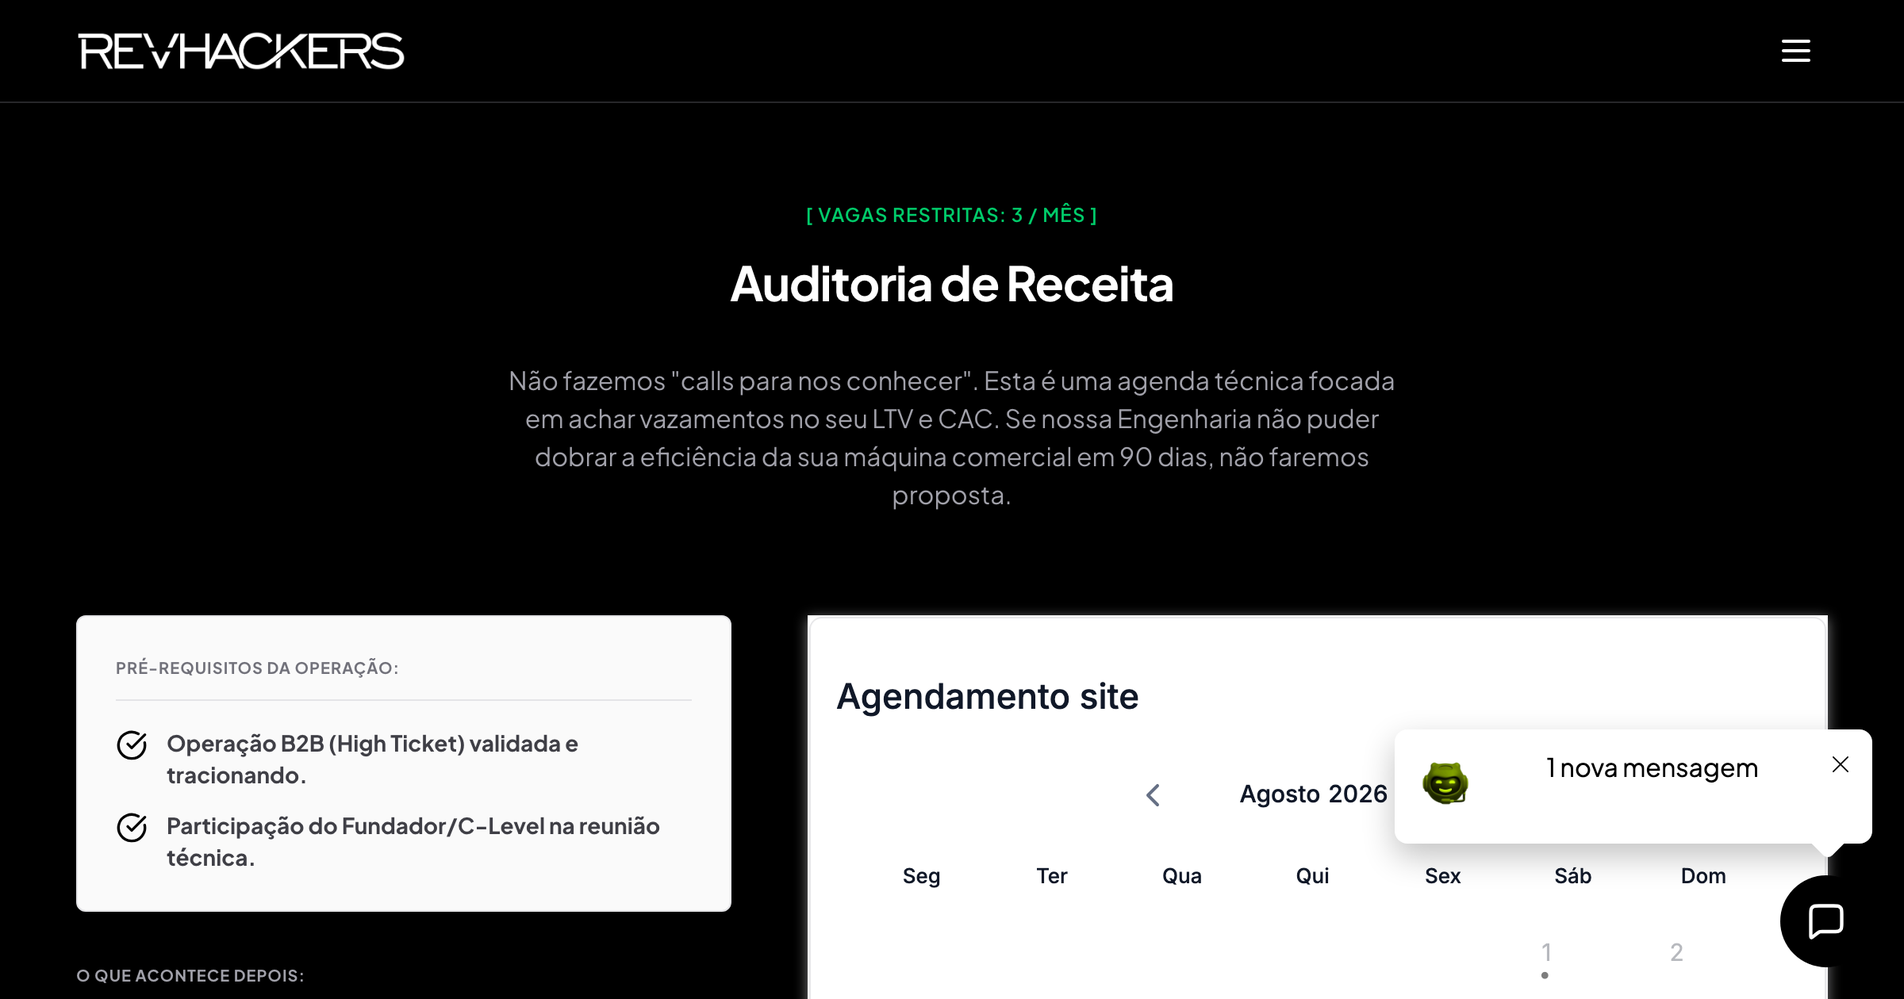
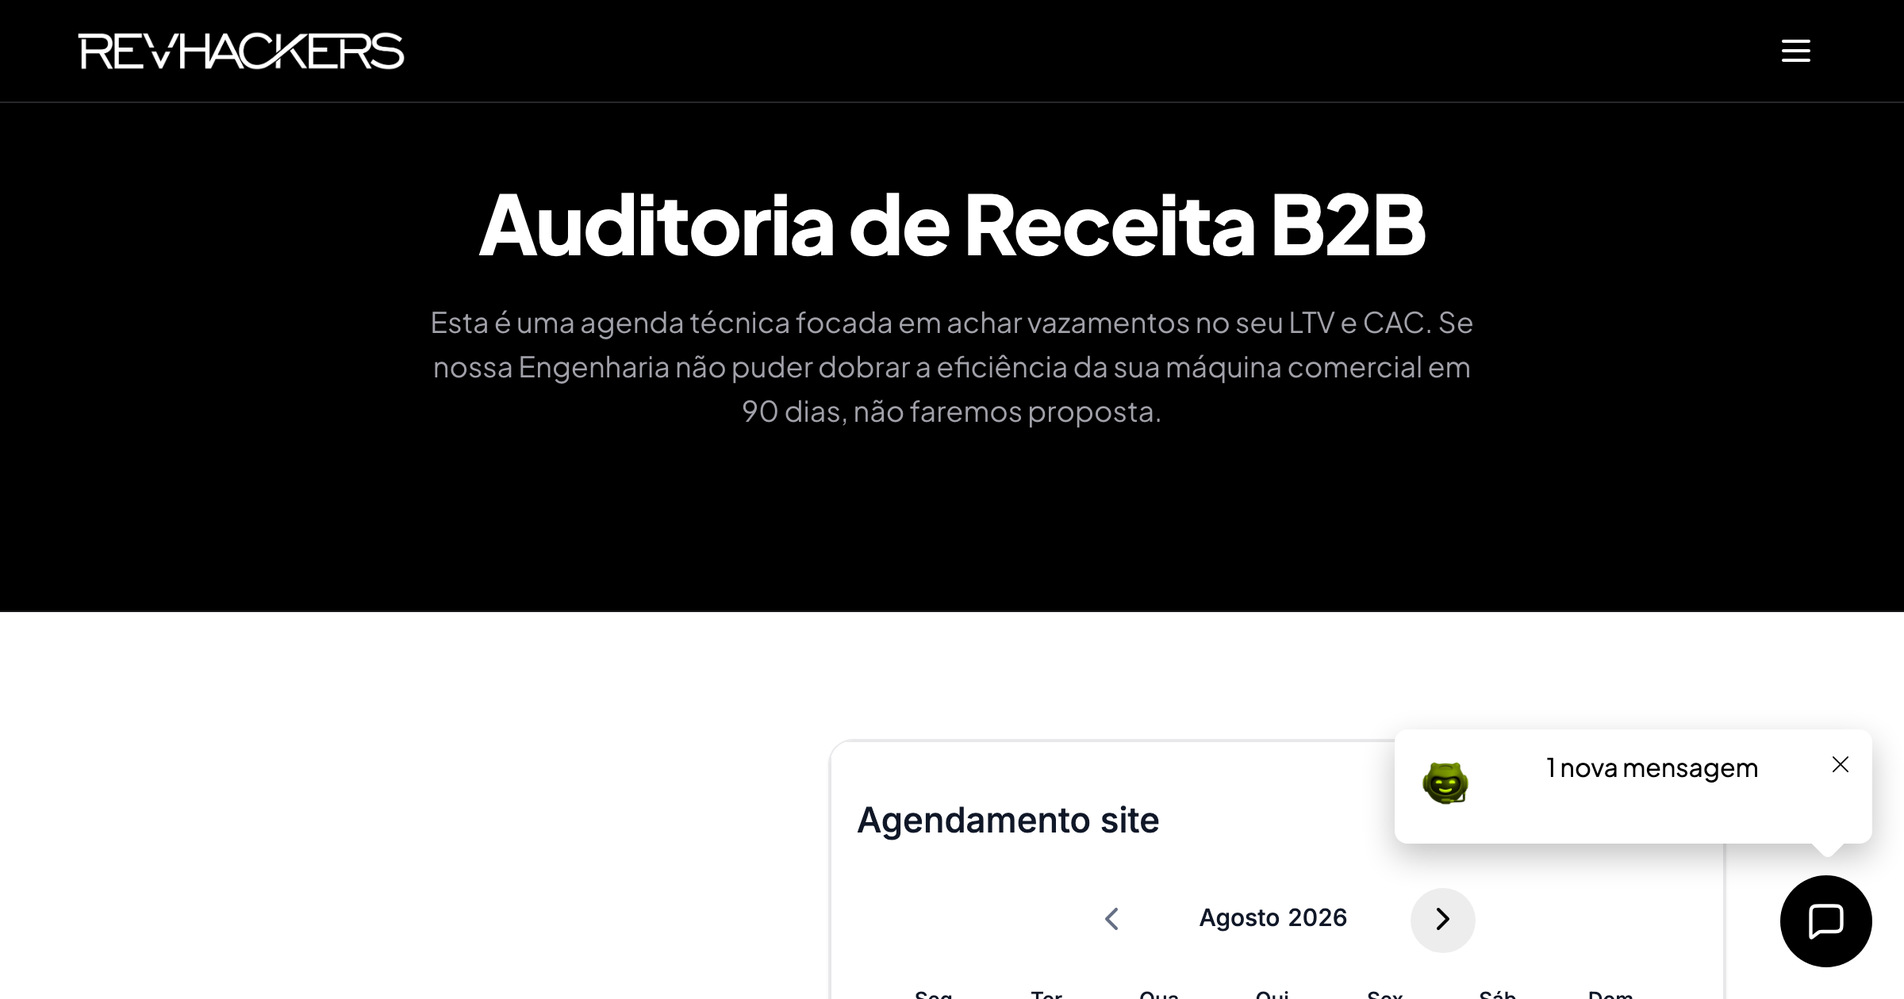
style(booking-cleanup): streamline left column into ultra-minimalist 2-item list and metric counter

diff --git a/src/pages/Booking.tsx b/src/pages/Booking.tsx
@@ -49,76 +49,59 @@ const BookingPage = () => {
         description="Agende uma auditoria técnica com a RevHackers para mapear vazamentos na sua operação B2B."
         canonical="https://revhackers.com.br/booking"
       />
-      <section className="py-24 md:py-32 bg-black min-h-screen">
-        <div className="w-full max-w-6xl mx-auto px-6">
+      {/* Hero Section (BLACK HERO STANDARD) */}
+      <section className="relative py-20 md:py-28 bg-black border-b border-zinc-900">
+        <div className="max-w-4xl mx-auto px-6 text-center space-y-5">
+          <h1 className="font-sans text-[2rem] sm:text-[2.75rem] md:text-[3.25rem] font-extrabold text-white leading-[1.1] tracking-tight text-center max-w-3xl mx-auto">
+            Auditoria de Receita B2B
+          </h1>
+          <p className="text-zinc-400 text-base md:text-lg font-normal leading-relaxed max-w-2xl mx-auto text-center">
+            Esta é uma agenda técnica focada em achar vazamentos no seu LTV e CAC. Se nossa Engenharia não puder dobrar a eficiência da sua máquina comercial em 90 dias, não faremos proposta.
+          </p>
+        </div>
+      </section>
 
-          {/* Header */}
-          <div className="text-center mb-16">
-            <p className="text-[#00CC6A] text-xs font-semibold tracking-wider uppercase mb-4">
-              [ Vagas Restritas: 3 / mês ]
-            </p>
-            <h1 className="text-2xl md:text-3xl font-bold text-white tracking-tight leading-tight max-w-2xl mx-auto text-center mb-8">Auditoria de Receita</h1>
-            <p className="text-sm md:text-base text-zinc-400 max-w-xl mx-auto leading-relaxed text-center">
-              Não fazemos "calls para nos conhecer". Esta é uma agenda técnica focada em achar vazamentos no seu LTV e CAC. Se nossa Engenharia não puder dobrar a eficiência da sua máquina comercial em 90 dias, não faremos proposta.
-            </p>
-          </div>
+      {/* Main Section — Fundo 100% Branco Puro e Minimalista */}
+      <section className="py-16 sm:py-20 bg-white text-zinc-900 border-b border-zinc-200/80">
+        <div className="w-full max-w-5xl mx-auto px-6">
 
-          {/* Layout 2 colunas: info + calendário */}
-          <div className="grid grid-cols-1 lg:grid-cols-5 gap-12 items-start">
+          {/* Layout 2 colunas: info ultra-clean + calendário */}
+          <div className="grid grid-cols-1 lg:grid-cols-5 gap-8 lg:gap-12 items-center">
 
-            {/* Coluna esquerda: contexto de conversão */}
-            <div className="lg:col-span-2 flex flex-col gap-8">
+            {/* Coluna esquerda: contexto minimalista sem poluição */}
+            <div className="lg:col-span-2 flex flex-col justify-center space-y-8">
 
-              {/* Pré-Requisitos */}
-              <div className="bg-zinc-50 border border-zinc-200 p-6 rounded-sm">
-                <span className="font-bold text-xxs tracking-wider uppercase text-zinc-500 mb-4 border-b border-zinc-200 pb-3 block">
-                  Pré-Requisitos da Operação:
+              {/* Pré-Requisitos em Lista Limpa */}
+              <div className="space-y-3">
+                <span className="text-xs font-bold uppercase tracking-wider text-zinc-950 block">
+                  Pré-Requisitos:
                 </span>
-                <div className="flex flex-col gap-3">
-                  <div className="flex items-start gap-3 text-sm text-zinc-700 font-bold">
-                    <CheckCircle className="w-5 h-5 text-black shrink-0 mt-0.5" />
-                    Operação B2B (High Ticket) validada e tracionando.
-                  </div>
-                  <div className="flex items-start gap-3 text-sm text-zinc-700 font-bold">
-                    <CheckCircle className="w-5 h-5 text-black shrink-0 mt-0.5" />
-                    Participação do Fundador/C-Level na reunião técnica.
-                  </div>
-                </div>
+                <ul className="space-y-3 text-xs sm:text-sm">
+                  <li className="flex items-center gap-2.5 text-zinc-900 font-semibold">
+                    <span className="w-1.5 h-1.5 rounded-full bg-zinc-950 shrink-0" />
+                    Operação B2B (High Ticket) tracionando
+                  </li>
+                  <li className="flex items-center gap-2.5 text-zinc-900 font-semibold">
+                    <span className="w-1.5 h-1.5 rounded-full bg-zinc-950 shrink-0" />
+                    Presença do Fundador / C-Level na sessão
+                  </li>
+                </ul>
               </div>
 
-              {/* O que acontece depois de agendar */}
-              <div>
-                <span className="font-bold text-xxs tracking-wider uppercase text-zinc-400 mb-5 block">
-                  O que acontece depois:
-                </span>
-                <div className="flex flex-col gap-5">
-                  {nextSteps.map((step, i) => (
-                    <div key={i} className="flex items-start gap-4">
-                      <div className="w-9 h-9 rounded-sm bg-zinc-900 flex items-center justify-center shrink-0">
-                        <step.icon className="w-4 h-4 text-white" />
-                      </div>
-                      <div>
-                        <p className="text-sm font-bold text-zinc-900 mb-1">{step.title}</p>
-                        <p className="text-sm text-zinc-500 leading-relaxed">{step.desc}</p>
-                      </div>
-                    </div>
-                  ))}
-                </div>
+              {/* Métrica Única de Impacto */}
+              <div className="border-t border-zinc-200/80 pt-6 space-y-1">
+                <p className="text-xs font-semibold text-zinc-400 uppercase tracking-wider">Resultado Auditado Misto</p>
+                <p className="text-2xl sm:text-3xl font-extrabold text-zinc-950 tracking-tight">+R$ 480.000</p>
+                <p className="text-xs text-zinc-500">em receita recuperada nas últimas auditorias.</p>
               </div>
 
-              {/* Mini social proof */}
-              <div className="border-t border-zinc-100 pt-6">
-                <p className="text-xs font-bold text-zinc-400 uppercase tracking-wider mb-3">Resultado típico em 90 dias</p>
-                <p className="text-2xl font-bold text-zinc-900 tracking-tight">+R$480K</p>
-                <p className="text-sm text-zinc-500 mt-1">em receita identificada ou recuperada nas últimas 4 auditorias.</p>
-              </div>
             </div>
 
             {/* Coluna direita: calendário */}
-            <div className="lg:col-span-3 bg-white overflow-hidden min-h-[700px] border border-zinc-100 shadow-sm shadow-zinc-100/50">
+            <div className="lg:col-span-3 bg-white overflow-hidden min-h-[680px] border border-zinc-200/80 rounded-xl shadow-xs">
               <iframe
                 src={BOOKING_BASE_URL}
-                style={{ width: '100%', border: 'none', overflow: 'hidden', minHeight: '700px', background: '#ffffff' }}
+                style={{ width: '100%', border: 'none', overflow: 'hidden', minHeight: '680px', background: '#ffffff' }}
                 scrolling="no"
                 id="frZ10gIRdS8iNvtlGq3q_1775165036136"
                 title="Auditoria de Receita"

diff --git a/src/pages/MaterialLanding.tsx b/src/pages/MaterialLanding.tsx
@@ -93,55 +93,46 @@ export default function MaterialLanding() {
                 description={(material.description || material.subheadline || 'Material gratuito RevHackers').replace(/<[^>]*>/g, '').substring(0, 160)}
                 canonical={`https://revhackers.com.br/materiais/${slug}`}
             />
-            {/* Hero Section - Apple/OpenAI Minimalist Style */}
-            <section className="pt-32 pb-24 px-6 bg-white min-h-[70vh] flex items-center justify-center">
-                <div className="max-w-3xl mx-auto text-center space-y-10">
-
-                    {/* Headline */}
-                    <div className="space-y-4">
-                        <h1 className="text-[2.5rem] md:text-[3.5rem] font-semibold tracking-tight text-zinc-900 leading-[1.1] max-w-3xl mx-auto">
-                            {(material.headline || material.title || '').replace(/<[^>]*>/g, '')}
-                        </h1>
-                        <p className="text-[1rem] md:text-[1.25rem] text-zinc-500 font-light tracking-tight max-w-xl mx-auto leading-relaxed">
-                            {(material.subheadline || material.description || '').replace(/<[^>]*>/g, '').substring(0, 150)}
-                        </p>
-                    </div>
-
-                    {/* CTA Button */}
-                    {!showForm ? (
-                        <div className="pt-8">
-                            <button
+            {/* Hero Section - Black Standard Hero */}
+            <section className="relative py-20 md:py-28 bg-black border-b border-zinc-900">
+                <div className="max-w-3xl mx-auto px-6 text-center space-y-6">
+                    <h1 className="font-sans text-[2rem] sm:text-[2.75rem] md:text-[3.25rem] font-extrabold text-white leading-[1.1] tracking-tight text-center max-w-3xl mx-auto">
+                        {(material.headline || material.title || '').replace(/<[^>]*>/g, '')}
+                    </h1>
+                    <p className="text-zinc-400 text-base md:text-lg font-normal leading-relaxed max-w-2xl mx-auto text-center">
+                        {(material.subheadline || material.description || '').replace(/<[^>]*>/g, '').substring(0, 150)}
+                    </p>
+                    {!showForm && (
+                        <div className="pt-2 flex justify-center">
+                            <Button
                                 onClick={() => setShowForm(true)}
-                                className="group inline-flex items-center gap-3 bg-revgreen hover:bg-[#00A850] text-white font-semibold text-sm px-8 py-4 rounded-full transition-all duration-300 hover:shadow-sm hover:-translate-y-0.5"
+                                className="bg-[#00CC6A] text-zinc-950 hover:bg-[#00b35e] font-extrabold text-sm sm:text-base h-12 px-8 rounded-xl shadow-lg transition-all flex items-center gap-2"
                             >
                                 <Download className="w-4 h-4" />
-                                Baixar Gratuitamente
-                                <span className="w-6 h-6 bg-white/20 rounded-full flex items-center justify-center group-hover:bg-white/30 transition-colors">
-                                    <ChevronRight className="w-3 h-3" />
-                                </span>
-                            </button>
-                            <p className="text-xs text-zinc-400 mt-4">
-                                Acesso imediato após preencher o formulário
-                            </p>
+                                <span>Baixar Gratuitamente →</span>
+                            </Button>
                         </div>
-                    ) : (
-                        /* Download Form */
-                        <div className="max-w-md mx-auto bg-zinc-50 border border-zinc-200 p-8 text-left animate-in fade-in slide-in-from-bottom-4 duration-500">
-                            <div className="mb-6 text-center">
-                                <h3 className="text-lg font-semibold text-zinc-900 mb-1">Acesse o material</h3>
-                                <p className="text-sm text-zinc-500">Preencha seus dados para liberar o download</p>
+                    )}
+                </div>
+            </section>
+
+            {/* Content / Form Section — Fundo 100% Branco Puro */}
+            <section className="py-20 bg-white text-zinc-900 border-b border-zinc-200/80">
+                <div className="max-w-md mx-auto px-6">
+                    {showForm && (
+                        <div className="bg-zinc-50/70 border border-zinc-200/80 p-8 rounded-xl space-y-6">
+                            <div className="text-center space-y-1">
+                                <h3 className="text-lg font-bold text-zinc-950 tracking-tight">Acesse o material</h3>
+                                <p className="text-xs text-zinc-500">Preencha seus dados para liberar o download imediato</p>
                             </div>
                             <DownloadForm
                                 materialId={material.id}
                                 materialType={material.type}
-                                onSubmit={() => {
-                                    // Form handles success internally
-                                }}
+                                onSubmit={() => {}}
                                 linkMaterial={material.downloadLink}
                             />
                         </div>
                     )}
-
                 </div>
             </section>
         </PageLayout>

diff --git a/src/pages/ClaudePartnerNetworkPage.tsx b/src/pages/ClaudePartnerNetworkPage.tsx
@@ -144,48 +144,48 @@ export default function ClaudePartnerNetworkPage() {
         canonical="https://revhackers.com.br/claude-partner-network"
       />
 
-      {/* Hero Section (BENCHMARK HOMEPAGE HERO) */}
+      {/* Hero Section (HOMEPAGE HERO 100% VISUAL CLONE) */}
       <section
         ref={heroRef}
         className="relative min-h-[85vh] flex flex-col justify-center items-center overflow-hidden pt-28 pb-16 bg-black border-b border-zinc-900"
       >
         <div className="relative z-10 w-full max-w-4xl mx-auto px-6 flex flex-col items-center text-center">
           
-          {/* Lockup Oficial: Claude Partner Network by RevHackers */}
+          {/* Lockup Compacto Oficial: Claude Partner Network by RevHackers */}
           <motion.div
             initial={{ opacity: 0, y: 16 }}
             animate={inViewHero ? { opacity: 1, y: 0 } : {}}
             transition={{ duration: 0.5, ease: 'easeOut' }}
-            className="flex items-center justify-center gap-3 sm:gap-4 mb-6 p-3 px-6 rounded-2xl bg-zinc-900/60 border border-zinc-800/80 shadow-inner"
+            className="flex items-center justify-center gap-2.5 mb-6 py-1.5 px-4 rounded-full bg-zinc-900/80 border border-zinc-800"
           >
             <img
               src="/brand/claude-partner-network.svg"
               alt="Claude Partner Network"
-              className="h-7 sm:h-9 w-auto object-contain"
+              className="h-4 sm:h-4.5 w-auto object-contain"
             />
-            <span className="text-zinc-400 font-medium text-xs sm:text-sm tracking-wide lowercase">by</span>
+            <span className="text-zinc-500 font-medium text-xs">by</span>
             <img
               src="/brand/revhackers-wordmark-white.png"
               alt="REVHACKERS"
-              className="h-4 sm:h-5 w-auto object-contain"
+              className="h-3 sm:h-3.5 w-auto object-contain"
             />
           </motion.div>
           
-          {/* Headline H1 (HOMEPAGE BENCHMARK EXACT SCALE) */}
+          {/* Headline H1 (EXACT SAME AS HOME HERO) */}
           <motion.h1
             initial={{ opacity: 0, y: 16 }}
             animate={inViewHero ? { opacity: 1, y: 0 } : {}}
             transition={{ duration: 0.5, delay: 0.05, ease: 'easeOut' }}
-            className="font-sans text-[2rem] sm:text-[2.75rem] md:text-[3.25rem] font-extrabold text-white mb-5 leading-[1.1] tracking-tight text-center max-w-3xl"
+            className="font-sans text-[2rem] sm:text-[2.75rem] md:text-[3.25rem] font-extrabold text-white mb-5 leading-[1.1] tracking-tight text-center max-w-4xl"
           >
             Você foi selecionado para o <span className="text-[#00CC6A]">Claude Partner Network</span> & RevHackers.
           </motion.h1>
 
-          {/* Subheadline (HOMEPAGE BENCHMARK EXACT SCALE) */}
+          {/* Subheadline (EXACT SAME AS HOME HERO) */}
           <motion.p
             initial={{ opacity: 0, y: 16 }}
             animate={inViewHero ? { opacity: 1, y: 0 } : {}}
-            transition={{ duration: 0.5, delay: 0.1, ease: 'easeOut' }}
+            transition={{ duration: 0.5, delay: 0.08, ease: 'easeOut' }}
             className="text-zinc-400 mb-8 text-base md:text-lg font-normal leading-relaxed max-w-2xl mx-auto text-center"
           >
             Aqui é o ambiente onde você vai aprender o Claude de verdade. Dedique-se e com certeza você colherá bons frutos disso.
@@ -194,7 +194,7 @@ export default function ClaudePartnerNetworkPage() {
           <motion.div
             initial={{ opacity: 0, y: 16 }}
             animate={inViewHero ? { opacity: 1, y: 0 } : {}}
-            transition={{ duration: 0.5, delay: 0.15 }}
+            transition={{ duration: 0.5, delay: 0.14, ease: 'easeOut' }}
           >
             <Button
               onClick={scrollToForm}

diff --git a/src/pages/AgendaDiagnostico.tsx b/src/pages/AgendaDiagnostico.tsx
@@ -62,42 +62,31 @@ const AgendaDiagnosticoPage = () => {
     return queryString ? `?${queryString}` : '';
   };
 
-  return (
-    <PageLayout>
-      <div className="min-h-screen bg-black pt-24 pb-12 flex flex-col items-center justify-center">
-        <div className="container-custom w-full max-w-5xl">
+      {/* Hero Section (BLACK HERO STANDARD) */}
+      <section className="relative py-20 md:py-28 bg-black border-b border-zinc-900">
+        <div className="max-w-4xl mx-auto px-6 text-center space-y-5">
+          <h1 className="font-sans text-[2rem] sm:text-[2.75rem] md:text-[3.25rem] font-extrabold text-white leading-[1.1] tracking-tight text-center max-w-3xl mx-auto">
+            Agendar <span className="text-[#00CC6A]">Sessão Estratégica</span>
+          </h1>
+          <p className="text-zinc-400 text-base md:text-lg font-normal leading-relaxed max-w-2xl mx-auto text-center">
+            Selecione o melhor horário abaixo no calendário oficial de diagnósticos da RevHackers.
+          </p>
+        </div>
+      </section>
 
-          {/* Header minimalista */}
-          <div className="text-center mb-8 animate-fade-in">
-            <h1 className="text-3xl md:text-5xl font-bold text-white mb-4 tracking-tighter">
-              Agendar <span className="text-revgreen">Sessão Estratégica</span>
-            </h1>
-            <p className="text-zinc-400 text-lg md:text-xl max-w-2xl mx-auto">
-              Selecione o melhor horário abaixo.
-            </p>
-          </div>
+      {/* Main Section — Fundo 100% Branco Puro */}
+      <section className="py-20 bg-white text-zinc-900 border-b border-zinc-200/80">
+        <div className="container-custom w-full max-w-5xl mx-auto px-6">
 
           {/* Calendar Container */}
-          <div className="bg-white/5 border border-white/10 overflow-hidden backdrop-blur-sm shadow-sm relative">
-            {/* Loader / Placeholder */}
-            <div className="absolute inset-0 flex items-center justify-center -z-10">
-              <div className="w-8 h-8 border-2 border-revgreen border-t-transparent rounded-full animate-spin"></div>
-            </div>
-
-            <style>{`
-                  .booking-calendar-wrapper iframe {
-                    background: transparent !important;
-                    min-height: 750px !important;
-                  }
-                `}</style>
-
+          <div className="bg-white overflow-hidden rounded-xl border border-zinc-200/80 shadow-xs relative min-h-[750px]">
             <iframe
               src={`https://team.growthagency.com.br/widget/booking/sKnL4ucDKohNmqj1hn6H${buildQueryParams()}`}
               style={{
                 width: '100%',
                 border: 'none',
                 minHeight: '750px',
-                backgroundColor: 'transparent'
+                backgroundColor: '#ffffff'
               }}
               id="sKnL4ucDKohNmqj1hn6H_1744205651626"
               title="Agendar diagnóstico"
@@ -106,14 +95,12 @@ const AgendaDiagnosticoPage = () => {
 
           {/* Footer minimalista */}
           <div className="mt-8 text-center">
-            <Link to="/" className="text-sm text-zinc-500 hover:text-white transition-colors underline decoration-zinc-800 underline-offset-4">
-              Voltar para Home
+            <Link to="/" className="text-xs font-bold text-zinc-500 hover:text-zinc-950 transition-colors uppercase tracking-wider">
+              ← Voltar para Home
             </Link>
           </div>
         </div>
-      </div>
-    </PageLayout>
-  );
+      </section>
 };
 
 export default AgendaDiagnosticoPage;

diff --git a/src/pages/Materiais.tsx b/src/pages/Materiais.tsx
@@ -212,25 +212,25 @@ const Materiais = () => {
         </div>
       </section>
 
-      {/* 3. CTA Footer */}
-      <div className="py-24 bg-white border-t border-zinc-200">
-        <div className="container-custom">
-          <div className="flex flex-col md:flex-row items-center justify-between gap-10">
-            <div className="max-w-2xl text-center md:text-left">
-              <h2 className="text-xl md:text-2xl font-bold text-zinc-900 tracking-tight">
+      {/* 3. CTA Footer — Fundo 100% Branco Puro */}
+      <div className="py-20 bg-white border-t border-zinc-200/80">
+        <div className="max-w-6xl mx-auto px-6">
+          <div className="flex flex-col md:flex-row items-center justify-between gap-8">
+            <div className="max-w-2xl text-center md:text-left space-y-2">
+              <h2 className="text-zinc-900 text-2xl sm:text-3xl font-extrabold tracking-tight">
                 Identificou a Dor?
               </h2>
-              <p className="text-xl text-zinc-500 font-bold tracking-tight leading-relaxed">
-                Pare de ler teoria. Aplique para que nossa Engenharia audite o seu funil e conecte seu CRM à ferramentas de IA.
+              <p className="text-zinc-500 text-sm md:text-base leading-relaxed">
+                Pare de ler teoria. Aplique para que nossa Engenharia audite o seu funil e conecte seu CRM a ferramentas de IA.
               </p>
             </div>
             <div className="flex-shrink-0">
               <Button
                 size="lg"
                 onClick={() => setIsBookingOpen(true)}
-                className="bg-black text-white hover:bg-revgreen hover:text-black font-bold tracking-wider uppercase px-10 h-11 rounded-lg text-xs transition-all duration-500 shadow-[0_0_15px_rgba(0,0,0,0.1)] hover:shadow-revgreen/20"
+                className="bg-zinc-950 text-white hover:bg-zinc-800 font-bold text-sm h-12 px-8 rounded-xl shadow-xs transition-all"
               >
-                Auditar Minha Operação
+                Auditar Minha Operação →
               </Button>
             </div>
           </div>
